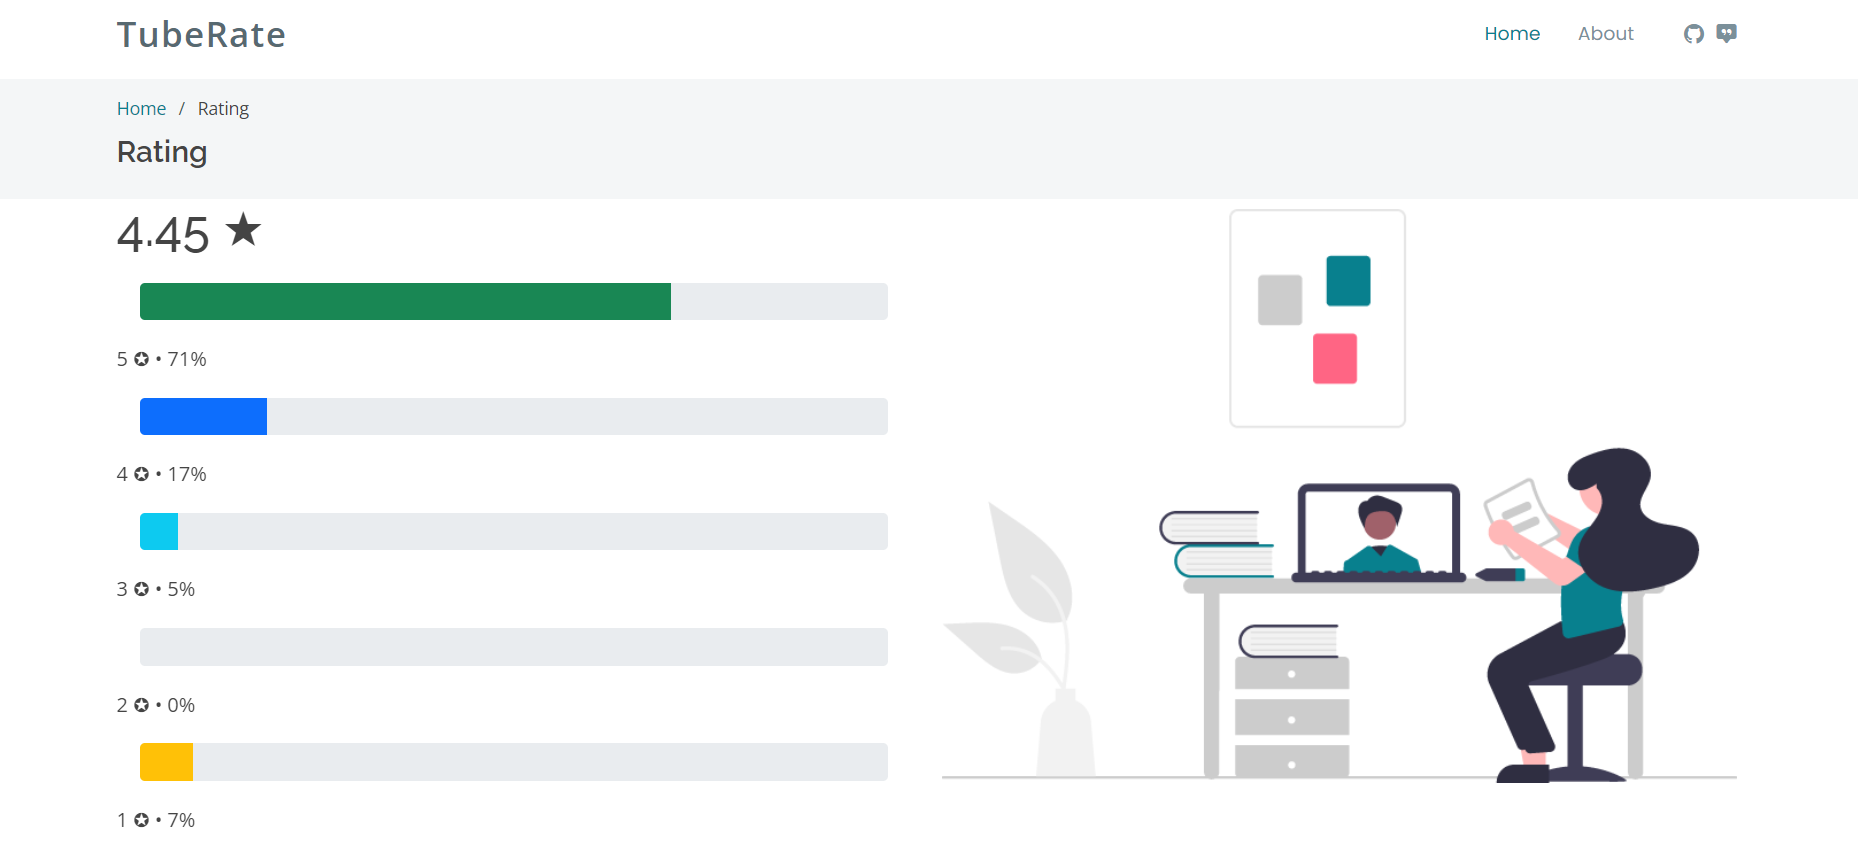
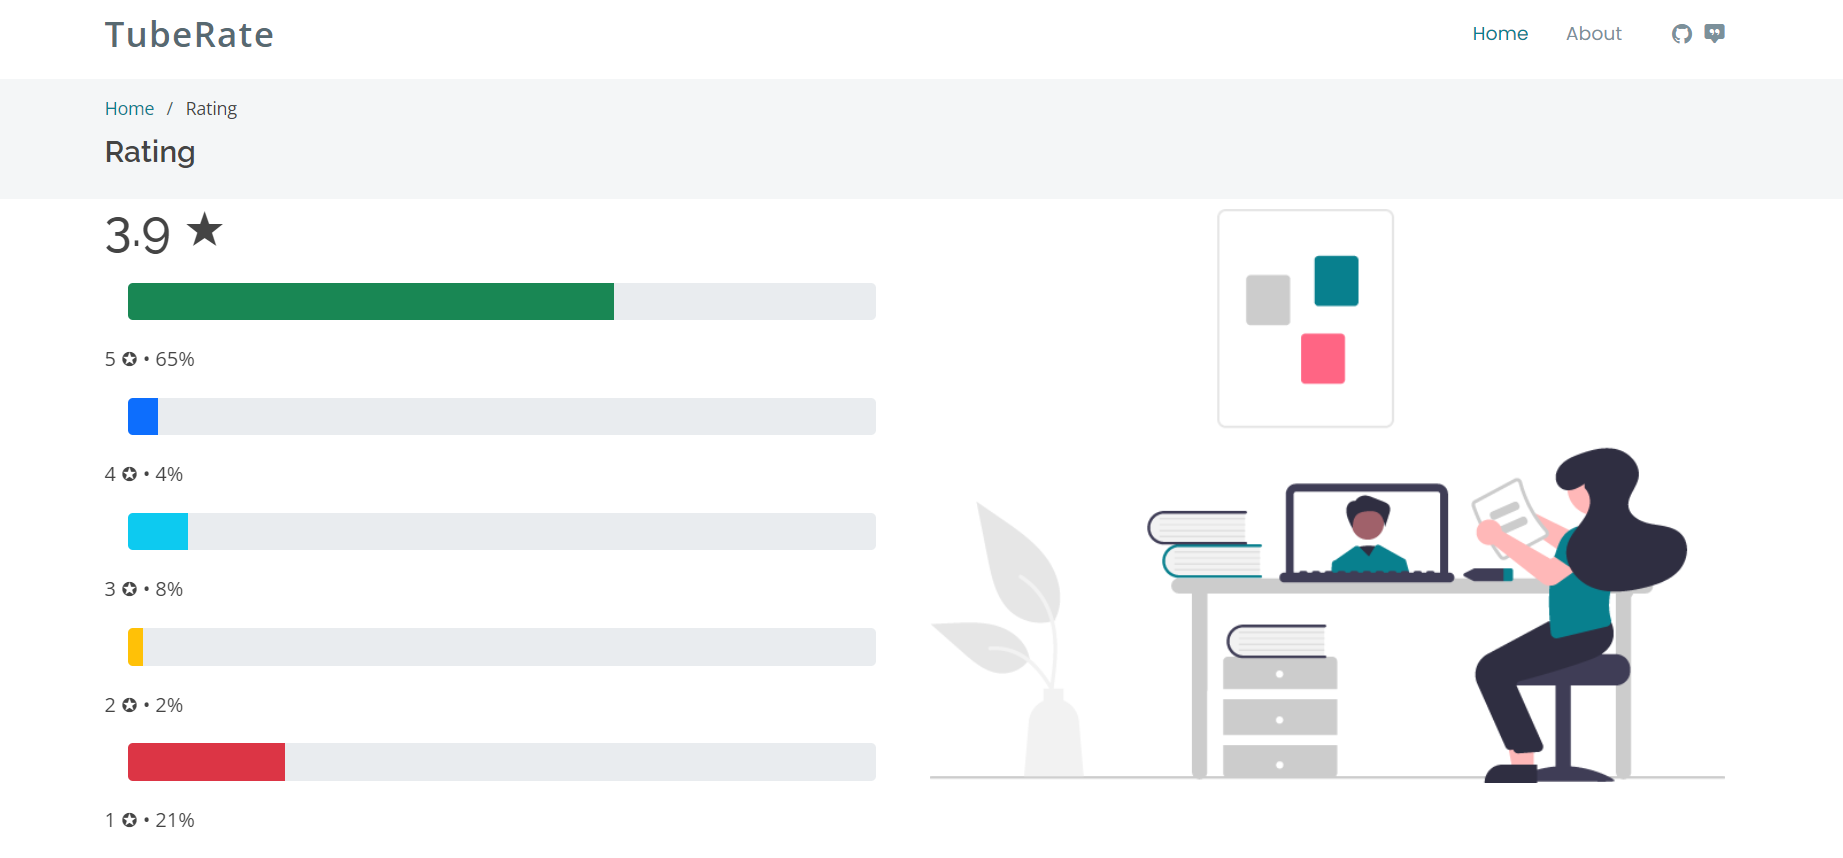
Update progress bars

diff --git a/templates/rating.html b/templates/rating.html
@@ -53,7 +53,7 @@
                 <div>2 ✪ • {{ two_rating }}%</div>
 
                 <div class="progress" style="height: 30px;">
-                    <div class="progress-bar bg-warning" role="progressbar" aria-valuenow="{{ one_rating }}"
+                    <div class="progress-bar bg-danger" role="progressbar" aria-valuenow="{{ one_rating }}"
                          aria-valuemin="0"
                          aria-valuemax="100" style="width:{{ one_rating }}%">
                     </div>
